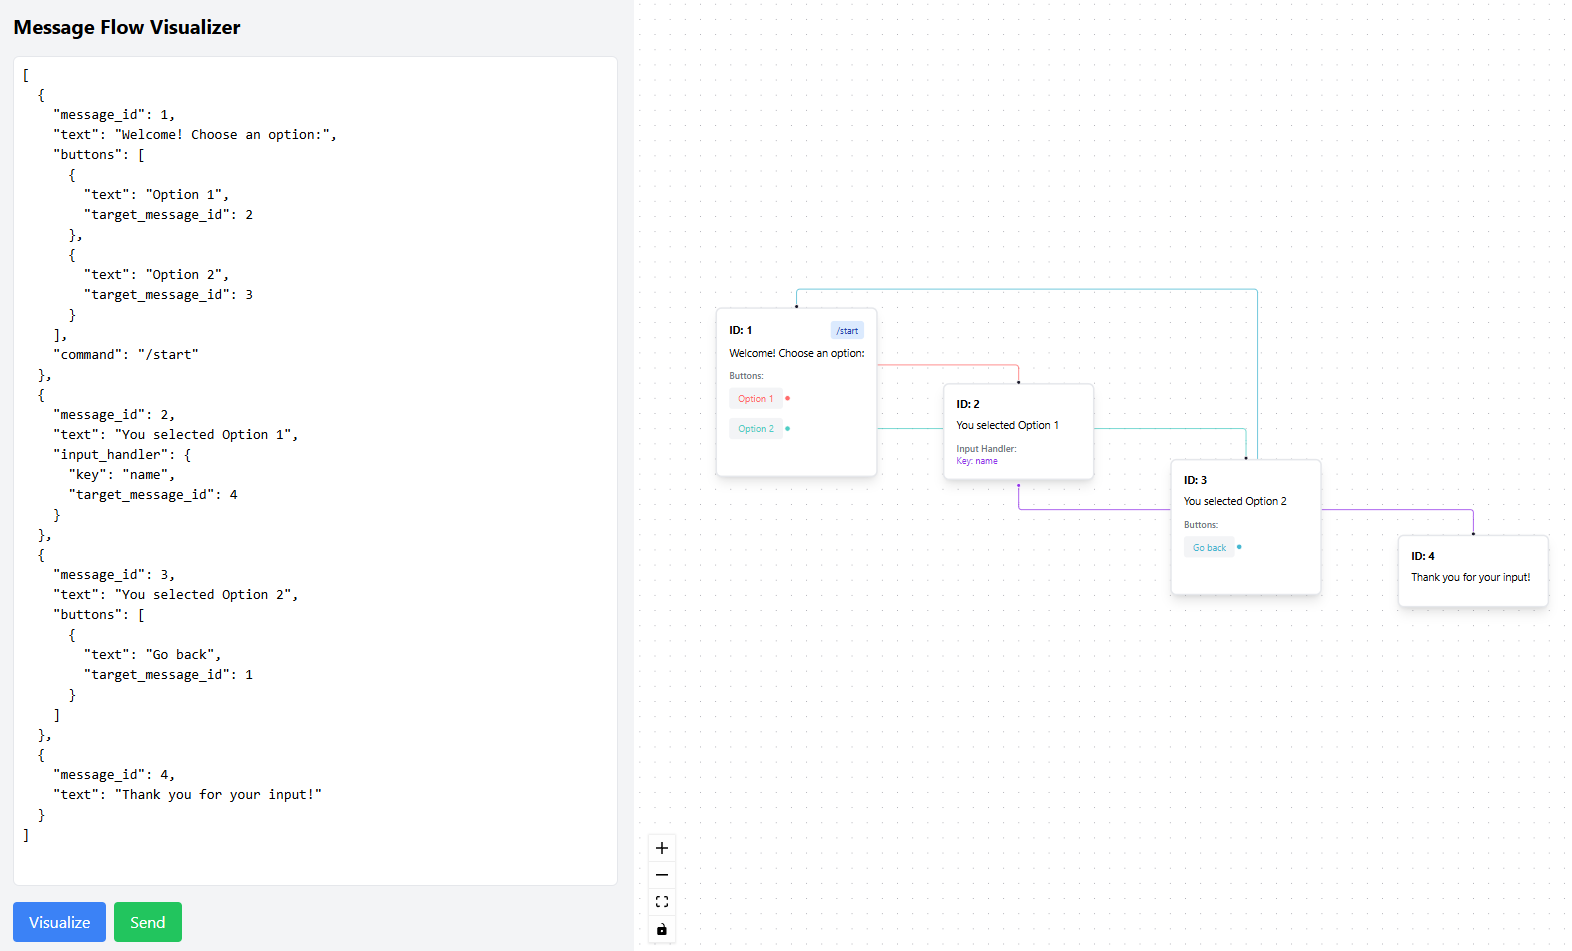
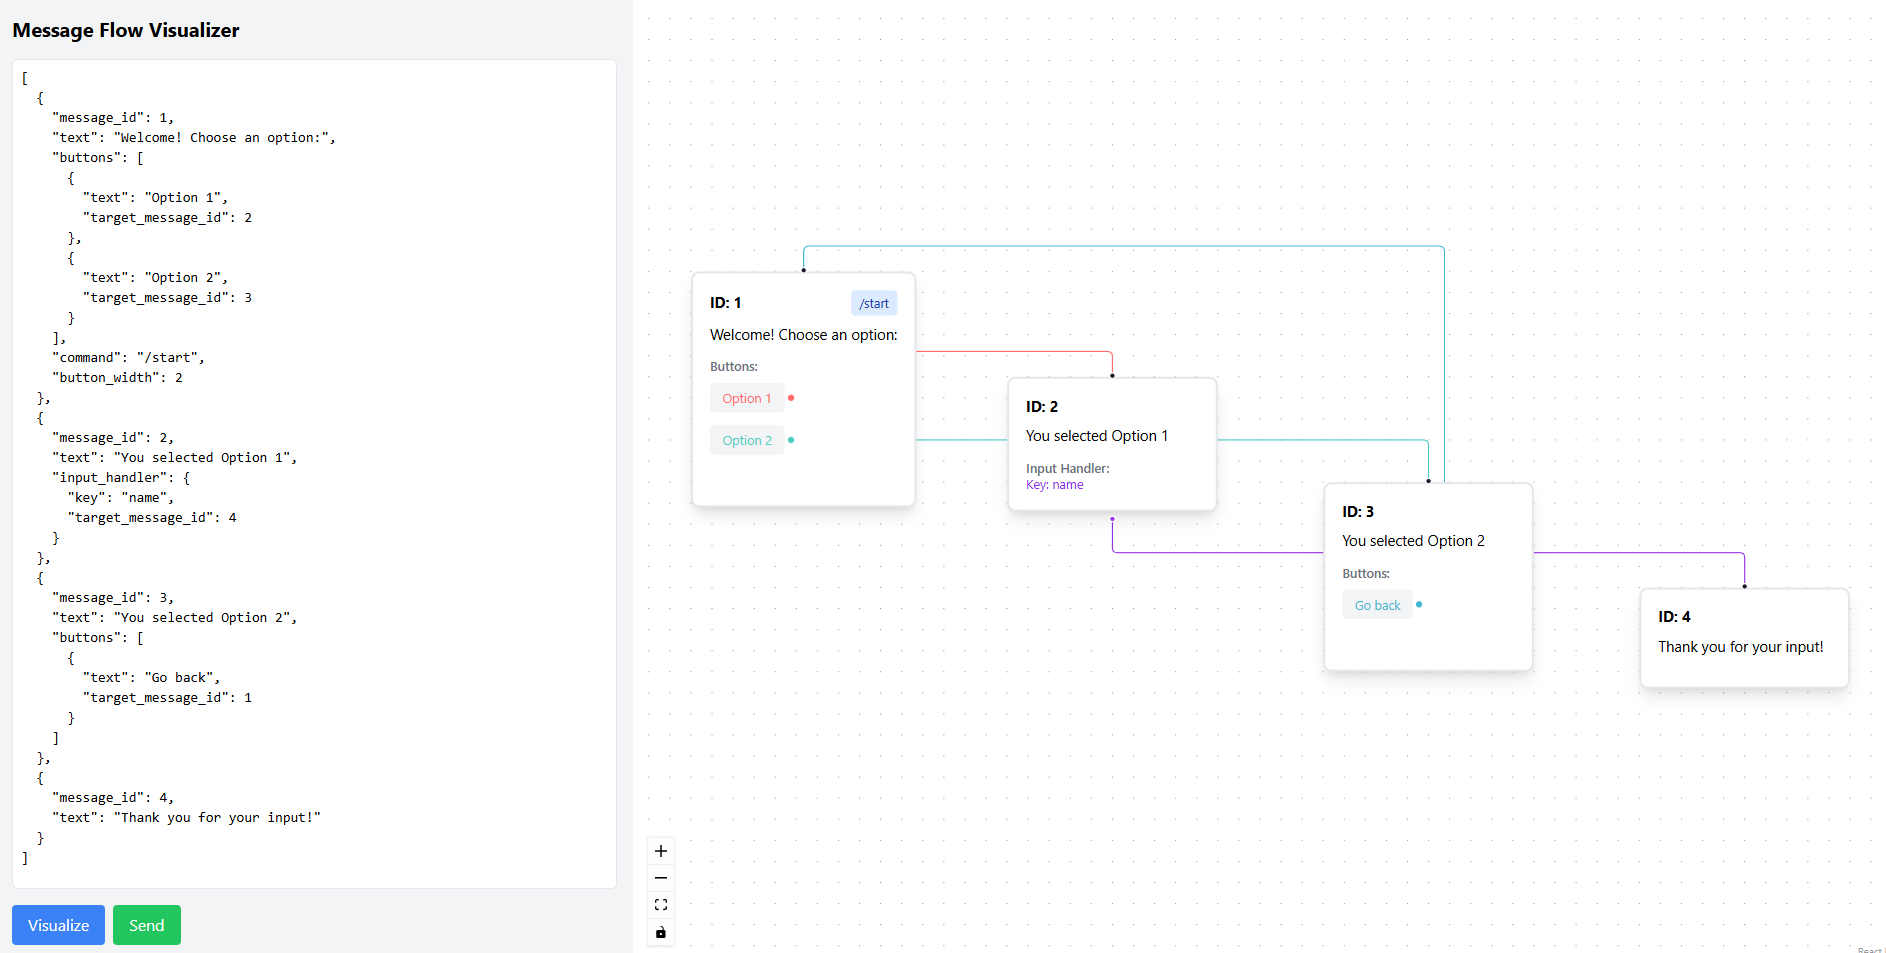
feat: add button width front

diff --git a/front/src/components/MessageNode.jsx b/front/src/components/MessageNode.jsx
@@ -3,12 +3,12 @@ import React, { memo } from 'react';
 import { Handle, Position } from 'reactflow';
 
 function MessageNode({ data }) {
-  const { message_id, text, command, buttons, input_handler } = data;
+  const { message_id, text, command, buttons, input_handler, button_width } = data;
 
   return (
     <div className="bg-white rounded-lg shadow-lg p-4 border-2 border-gray-200 min-w-[200px]">
       <Handle type="target" position={Position.Top} />
-      
+
       {/* Message ID and Command */}
       <div className="flex justify-between items-center mb-2">
         <span className="font-bold text-sm">ID: {message_id}</span>
@@ -26,7 +26,7 @@ function MessageNode({ data }) {
       {buttons && buttons.length > 0 && (
         <div className="space-y-2">
           <div className="text-xs font-semibold text-gray-500">Buttons:</div>
-          <div className="flex flex-col gap-3 relative pb-8">
+          <div className={`grid grid-cols-${button_width || 1} gap-3 relative pb-8`}>
             {buttons.map((button, index) => (
               <div
                 key={index}

diff --git a/front/src/utils.js b/front/src/utils.js
@@ -45,6 +45,7 @@ export const processMessages = (messages) => {
       position: { x: index * 300, y: index * 100 }, // Initial positioning
       data: {
         ...message,
+        button_width: message.button_width || 1,
         buttons: message.buttons?.map((button, buttonIndex) => ({
           ...button,
           color: getButtonColor(button.text, usedColors),

diff --git a/readme.md b/readme.md
@@ -64,7 +64,8 @@ npm run dev
         "target_message_id": 3
       }
     ],
-    "command": "/start"
+    "command": "/start",
+    "button_width": 2
   },
   {
     "message_id": 2,
